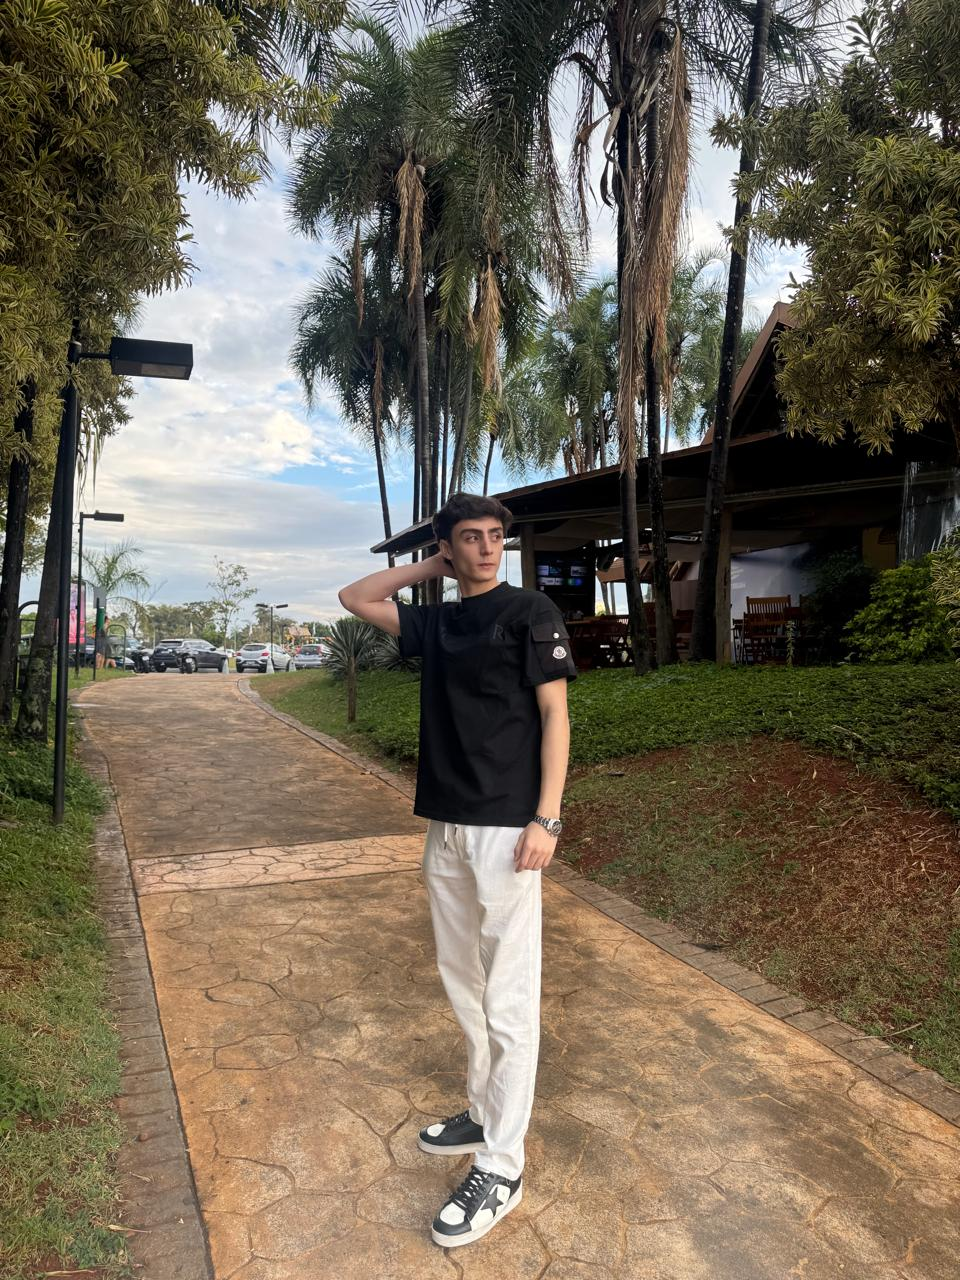
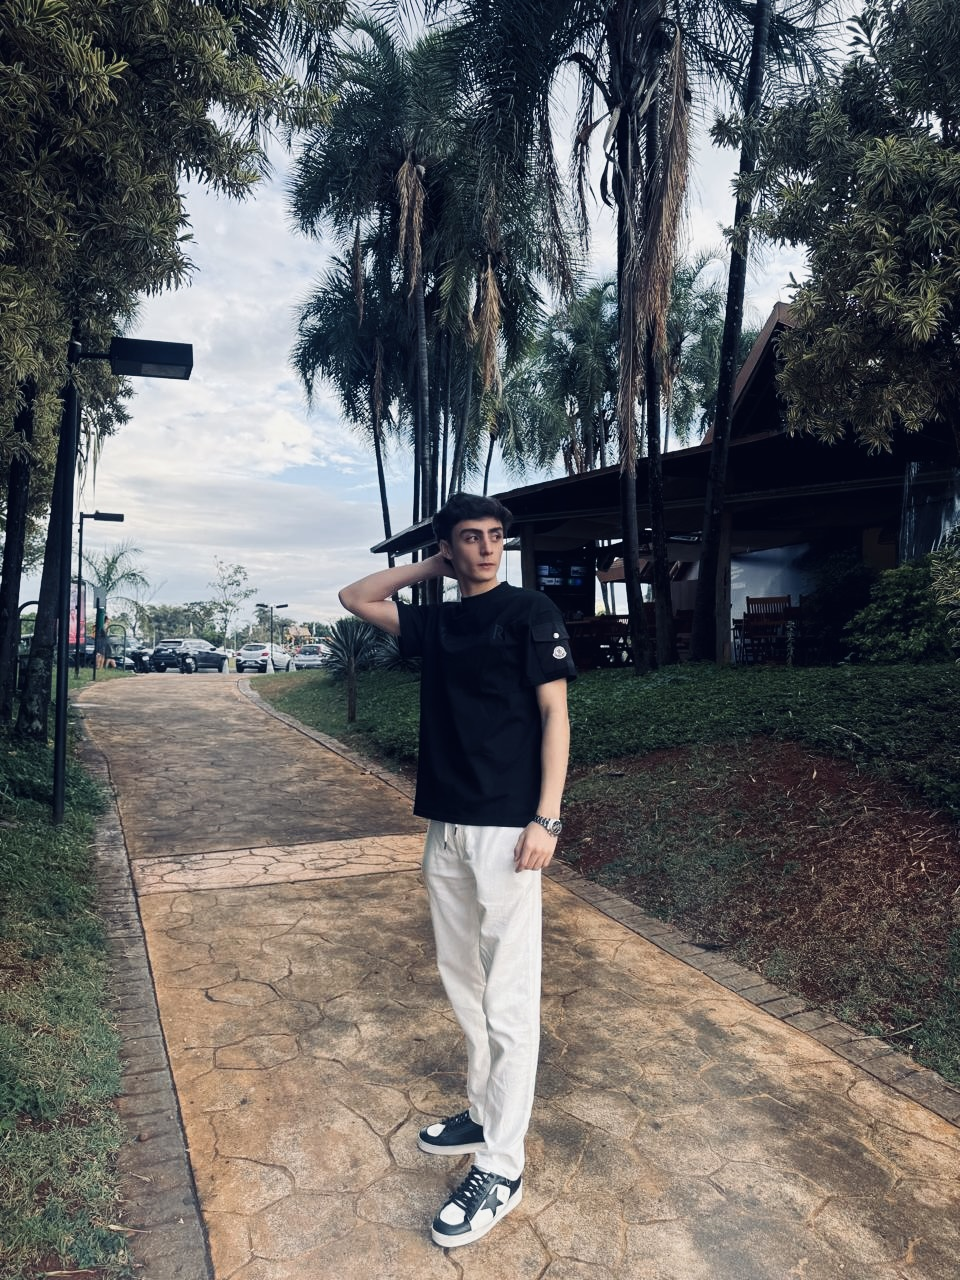
"Quem é o dono": foto em destaque no 2º slide
- Foto enviada pelo cliente; menos escurecimento e texto menor na base

Claude-Session: https://claude.ai/code/session_018Rxm36svjxPgU3W8TLCnbb

diff --git a/posts-grade/04-carrossel-dono/slides.html b/posts-grade/04-carrossel-dono/slides.html
@@ -92,11 +92,11 @@
 
   .full{position:absolute;inset:0;z-index:0}
   .full img{width:100%;height:100%;object-fit:cover;display:block}
-  .full:after{content:"";position:absolute;inset:0;background:linear-gradient(180deg,rgba(11,17,27,.6),rgba(11,17,27,0) 22%,rgba(11,17,27,.05) 50%,rgba(11,17,27,.97) 86%)}
-  .facts{display:flex;gap:0;margin-top:36px;border-top:1px solid rgba(243,240,233,.2);border-bottom:1px solid rgba(243,240,233,.2)}
-  .facts div{flex:1;padding:22px 0}
+  .full:after{content:"";position:absolute;inset:0;background:linear-gradient(180deg,rgba(11,17,27,.45),rgba(11,17,27,0) 14%,rgba(11,17,27,0) 66%,rgba(11,17,27,.92) 92%)}
+  .facts{display:flex;gap:0;margin-top:22px;border-top:1px solid rgba(243,240,233,.2);border-bottom:1px solid rgba(243,240,233,.2)}
+  .facts div{flex:1;padding:14px 0}
   .facts div+div{border-left:1px solid rgba(243,240,233,.2);padding-left:28px}
-  .facts b{display:block;font-family:Wide;font-stretch:125%;font-weight:700;font-size:58px;color:#F3F0E9}
+  .facts b{display:block;font-family:Wide;font-stretch:125%;font-weight:700;font-size:44px;color:#F3F0E9}
   .facts span{font-family:Mono;font-size:17px;letter-spacing:.14em;text-transform:uppercase;color:rgba(243,240,233,.6)}
   .quote{font-family:Bodoni;font-style:italic;font-size:58px;line-height:1.2;color:#F3F0E9}
   .quote em{color:var(--sky)}
@@ -156,9 +156,9 @@
 <section class="slide tile"><div class="c3">
   <div class="full"><img src="../../assets/fotos/dono-2.jpg" style="object-position:50% 40%" alt=""></div>
   <div class="top"><img src="../../assets/logo/gmsr-mono-branco.png" alt=""><span class="mono counter"></span></div>
-  <div style="position:absolute;left:80px;right:80px;bottom:150px;z-index:3">
+  <div style="position:absolute;left:80px;right:80px;bottom:120px;z-index:3">
     <div class="mono" style="font-size:20px;color:var(--sky)">◆ Prazer</div>
-    <div class="w" style="font-weight:700;font-size:92px;margin-top:16px;line-height:1.02">O dono<br>da <em>GMSR.</em></div>
+    <div class="w" style="font-weight:700;font-size:64px;margin-top:12px;line-height:1.02">O dono da <em>GMSR.</em></div>
     <div class="facts">
       <div><b>18</b><span>anos</span></div>
       <div><b>BSB</b><span>Brasília · DF</span></div>
